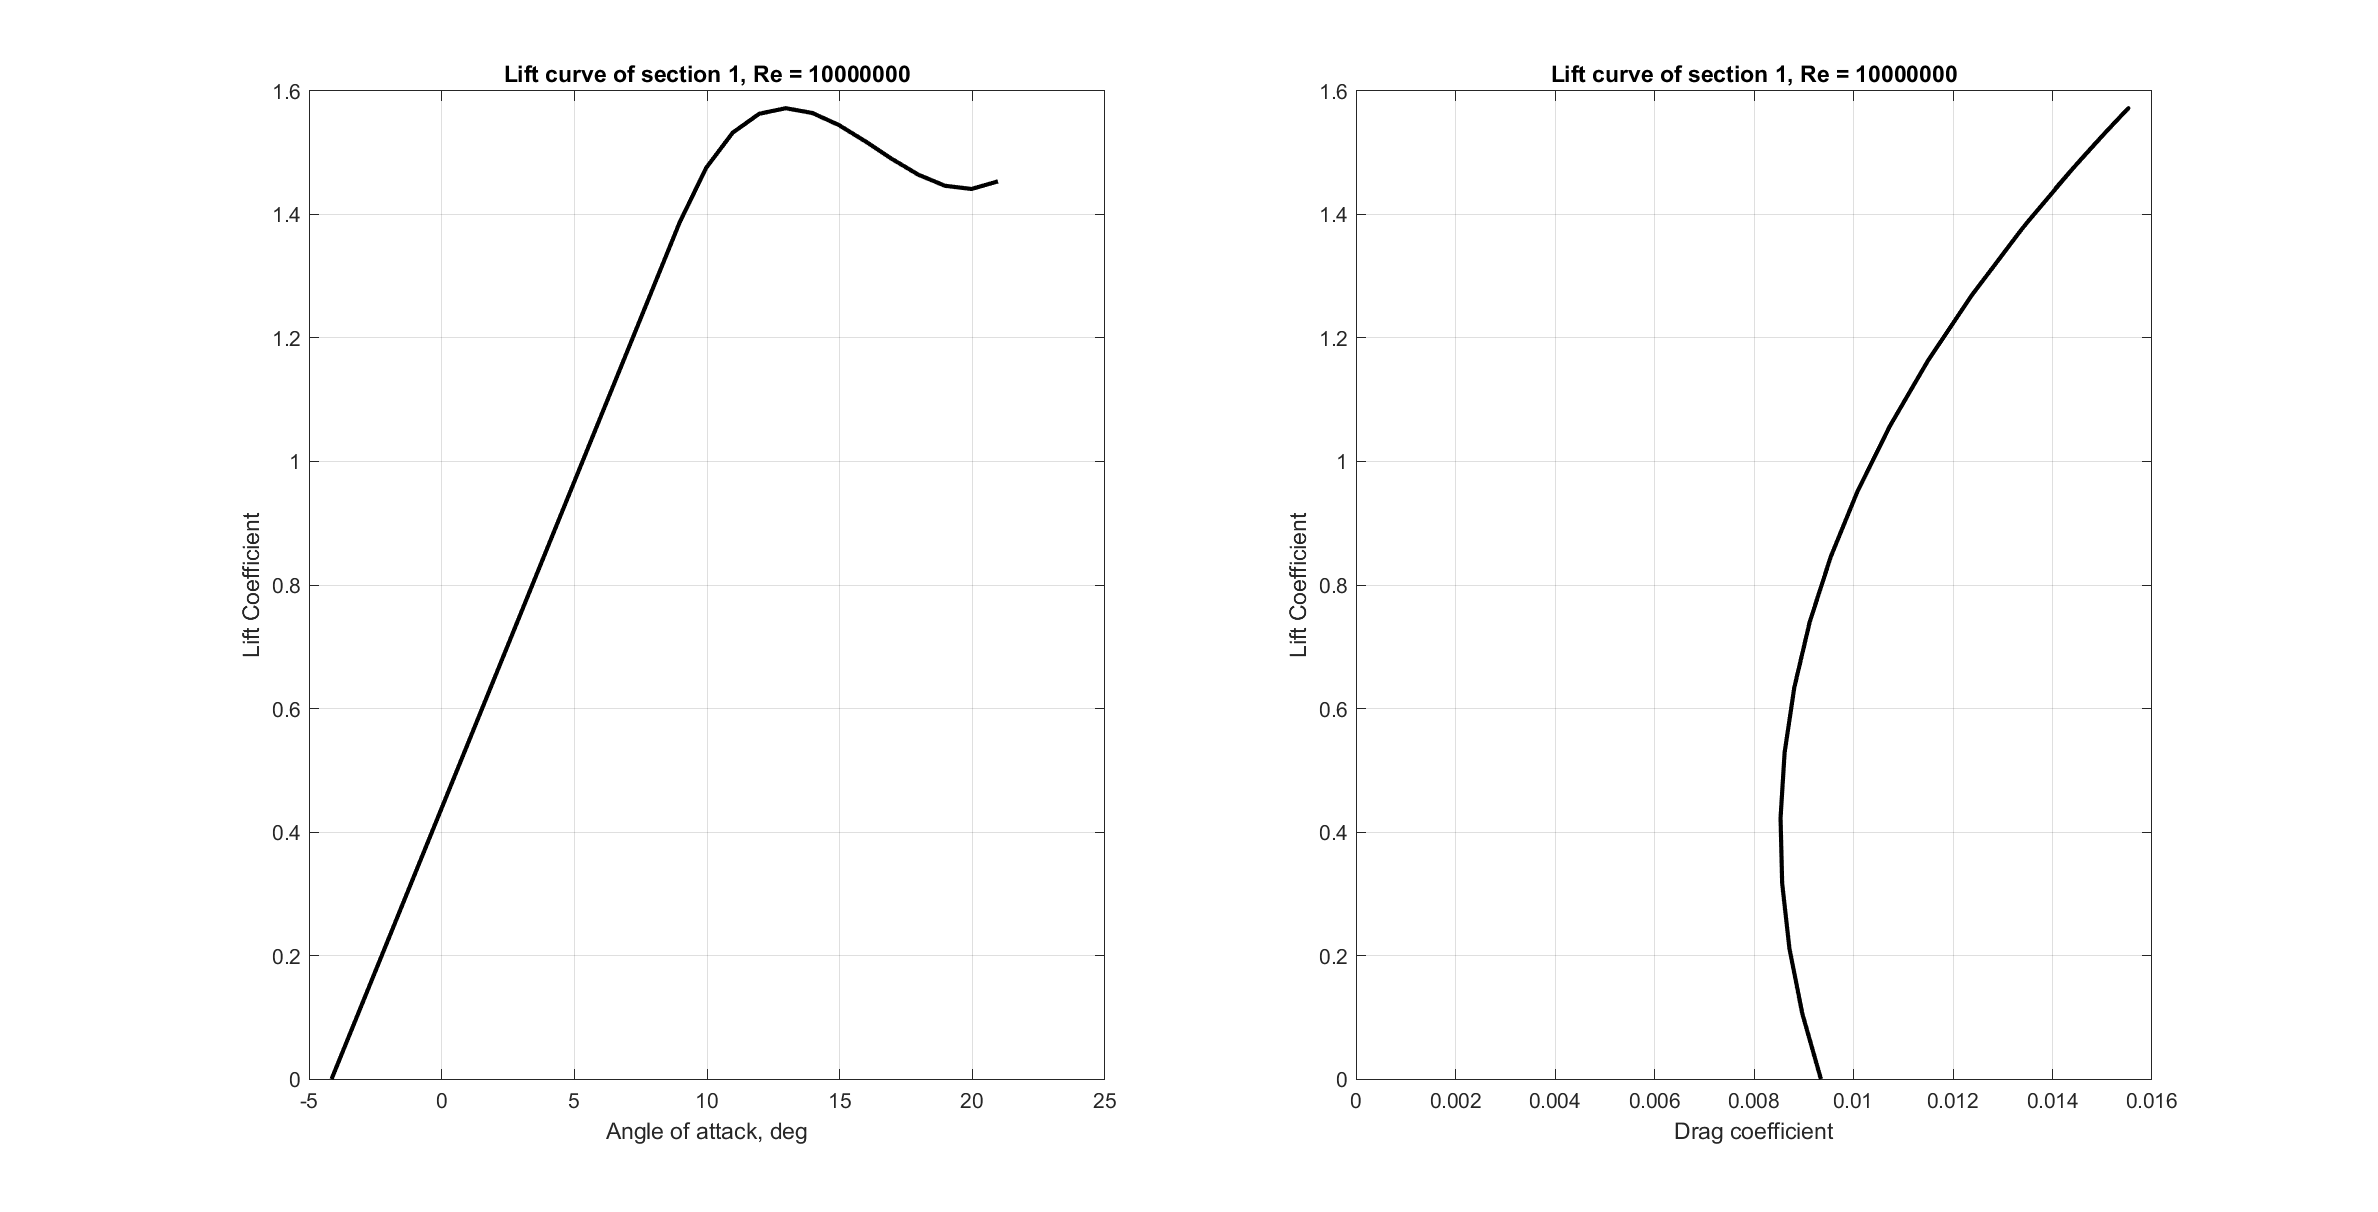
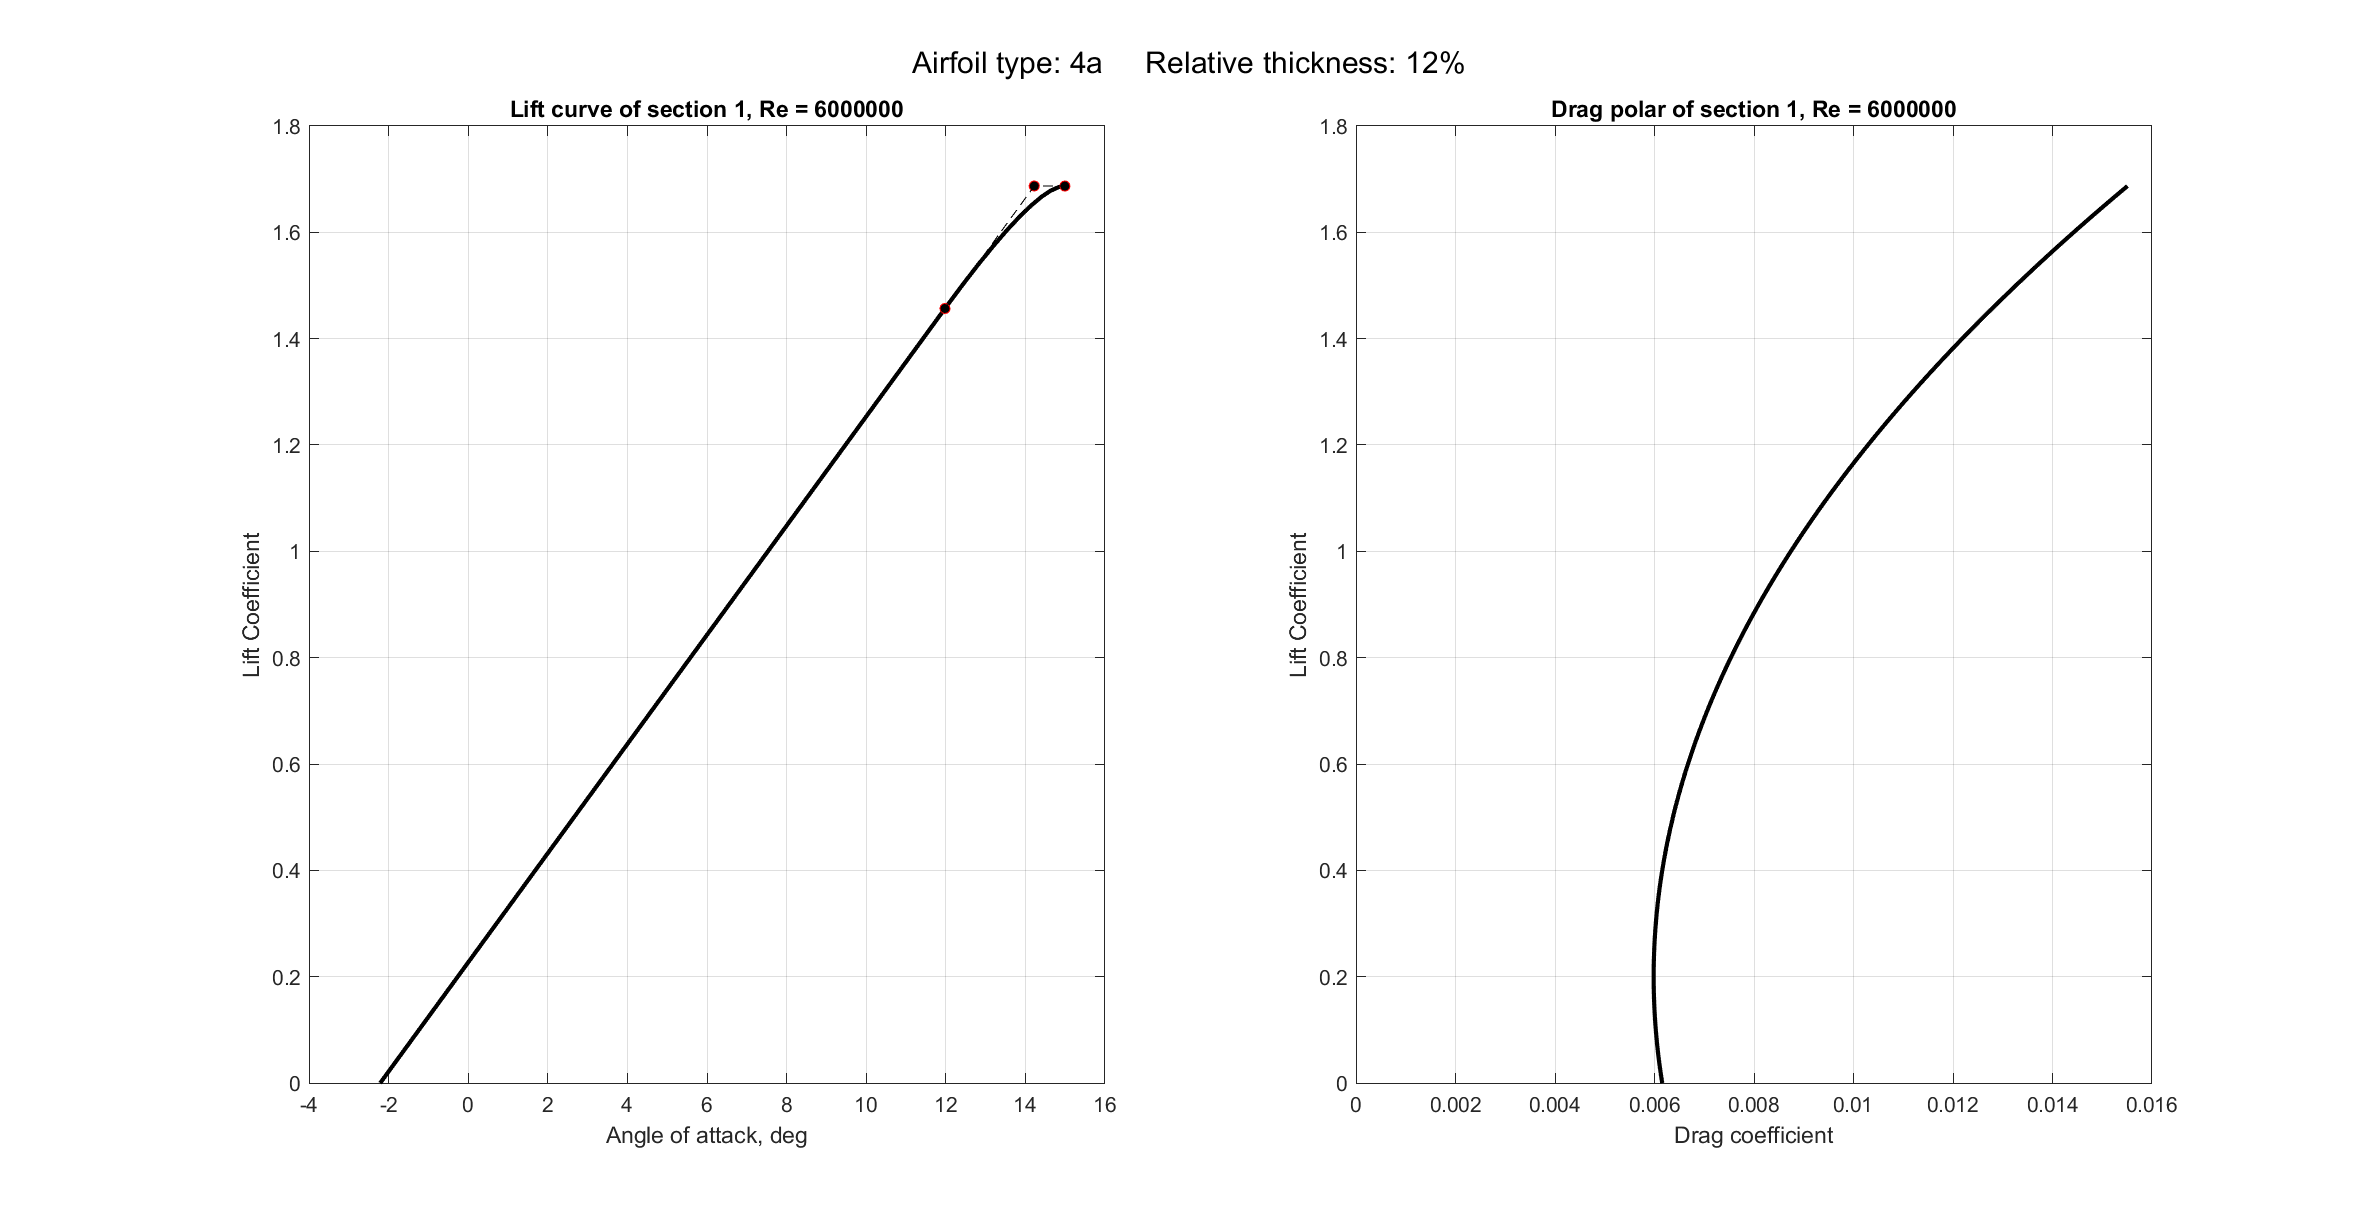
Fixed non-linear Cl range

diff --git a/main.m b/main.m
@@ -1,11 +1,12 @@
 close all; clear; clc
 
 % Input data
-saveFiguresFlag = 0;        % write png figures on disk (yes = 1; no = 0)
-numberOfSections = 1;       % scalar, how many section to analyze
-airfoilType = {'sc'};       % cell array of char arrays
-localReynolds = [6E6];      % numeric array, Reynolds number of each section
-thicknessRatio = [9];       % numeric array, percentage relative thickness
+saveFiguresFlag = 1;        % write png figures on disk (yes = 1; no = 0)
+numberOfSections = 4;       % scalar, how many section to analyze
+airfoilType = {'4a', '5a', '6a', 'sc'};       % cell array of char arrays
+localReynolds = [6E6, 6E6, 6E6, 6E6];      % numeric array, Reynolds number of each section
+thicknessRatio = [12, 15, 10, 8];       % numeric array, percentage relative thickness
+bezierFlag = 1;             % switch to 1 to plot Bezier curve control points
 
 % airfoilType may be one of the following:
 %   '4s'    symmetric 4-digit NACA airfoil
@@ -25,36 +26,22 @@ localClStar = localClAlfa .* (localAlfaStar - localAlfaZeroLift);
 % Generate figures
 for i = 1:numberOfSections
     
-    A = [localAlfaStar(i)^3, localAlfaStar(i)^2, localAlfaStar(i), 1; ...
-        localAlfaStall(i)^3, localAlfaStall(i)^2, localAlfaStall(i), 1; ...
-        3*localAlfaStar(i)^2, 2*localAlfaStar(i), 1, 0; ...
-        3*localAlfaStall(i)^2, 2*localAlfaStall(i), 1, 0];
-    b = [localClStar(i), localClMax(i), localClAlfa(i), 0]';
-    x = A\b;
+    % Lift curve: linear range
+    alfaLinear = linspace(localAlfaZeroLift(i),localAlfaStar(i));
+    clLinear = localClAlfa(i) * (alfaLinear - localAlfaZeroLift(i));
     
-    % Lift curve
-    alfaLinear = localAlfaZeroLift(i):localAlfaStar(i);
-    alfaNonLinear = localAlfaStar(i):0.1:localAlfaStall+3;
-    clLinear = localClAlfa(i) .* (alfaLinear - localAlfaZeroLift(i));
-    clNonLinear = x(1)*alfaNonLinear.^3 + x(2)*alfaNonLinear.^2 + ...
-        x(3)*alfaNonLinear + x(4);
-    
-    % Use a parabola instead of a cubic curve, if the reconstructed curve goes
-    % beyond Clmax, which falls on a local minimum instead of the maximum
-    if round(max(clNonLinear),2) > round(localClMax(i),2)
-        A = [localAlfaStar(i)^2, localAlfaStar(i), 1; ...
-            localAlfaStall(i)^2, localAlfaStall(i), 1; ...
-            2*localAlfaStall(i), 1, 0];
-        b = [localClStar(i), localClMax(i), 0]';
-        x = A\b;
-        clNonLinear = x(1)*alfaNonLinear.^2 + x(2)*alfaNonLinear + x(3);
-        disp('Using a parabola instead of a cubic curve')
+    % Lift curve: non-linear range
+    alfa1 = (localClMax(i) - localClStar(i)) / localClAlfa(i) + localAlfaStar(i);
+    if alfa1 > localAlfaStall(i)
+        localAlfaStall(i) = alfa1; % otherwise slope in the non-linear range increases!
     end
+    cl1 = localClMax(i);
     
-    % Cut the curve if in post-stall decrease too much
-    while clNonLinear(end) < localClStar(i)
-        alfaNonLinear = alfaNonLinear(1:end-1);
-        clNonLinear = clNonLinear(1:end-1);
+    c = 0;
+    for t = 0:0.1:1     % reconstruction with a quadratic Bezier curve
+        c = c + 1;
+        alfaNonLinear(c) = (1-t)^2*localAlfaStar(i) + 2*t*(1-t)*alfa1 + t^2*localAlfaStall(i); %#ok<*SAGROW>
+        clNonLinear(c) = (1-t)^2*localClStar(i) + 2*t*(1-t)*cl1 + t^2*localClMax(i);
     end
     
     alfaArray = [alfaLinear, alfaNonLinear];
@@ -63,19 +50,29 @@ for i = 1:numberOfSections
     % Drag polar
     cdArray = localCdMin(i) + localK(i) * (clArray - localCli(i)).^2;
     
-    % Plot
+    % Plot charts
     figure('units','normalized','outerposition',[0 0 1 1])
     subplot(1,2,1)  % Lift curve
     plot(alfaArray,clArray,'k','LineWidth',2)
     grid on, xlabel('Angle of attack, deg'), ylabel('Lift Coefficient')
     title(['Lift curve of section ', num2str(i), ', Re = ', num2str(localReynolds(i))])
     
+    if bezierFlag == 1
+       hold on
+       scatter([localAlfaStar(i),alfa1,localAlfaStall(i)], [localClStar(i),cl1,localClMax(i)], ...
+           'Marker','o', 'MarkerFaceColor', 'k', 'MarkerEdgeColor', 'r', 'SizeData', 24)
+       plot([localAlfaStar(i),alfa1,localAlfaStall(i)], [localClStar(i),cl1,localClMax(i)], 'k--')
+       hold off
+    end
+    
     subplot(1,2,2)  % Drag polar
     plot(cdArray,clArray,'k','LineWidth',2)
     ax = gca;   ax.XLim(1) = 0;
     grid on, xlabel('Drag coefficient'), ylabel('Lift Coefficient')
-    title(['Lift curve of section ', num2str(i), ', Re = ', num2str(localReynolds(i))])
+    title(['Drag polar of section ', num2str(i), ', Re = ', num2str(localReynolds(i))])
     
+    sgtitle(['Airfoil type: ', airfoilType{i}, ...
+        '     Relative thickness: ', num2str(thicknessRatio(i)), '%']);
 end
 
 % Export all figures (if requested)
